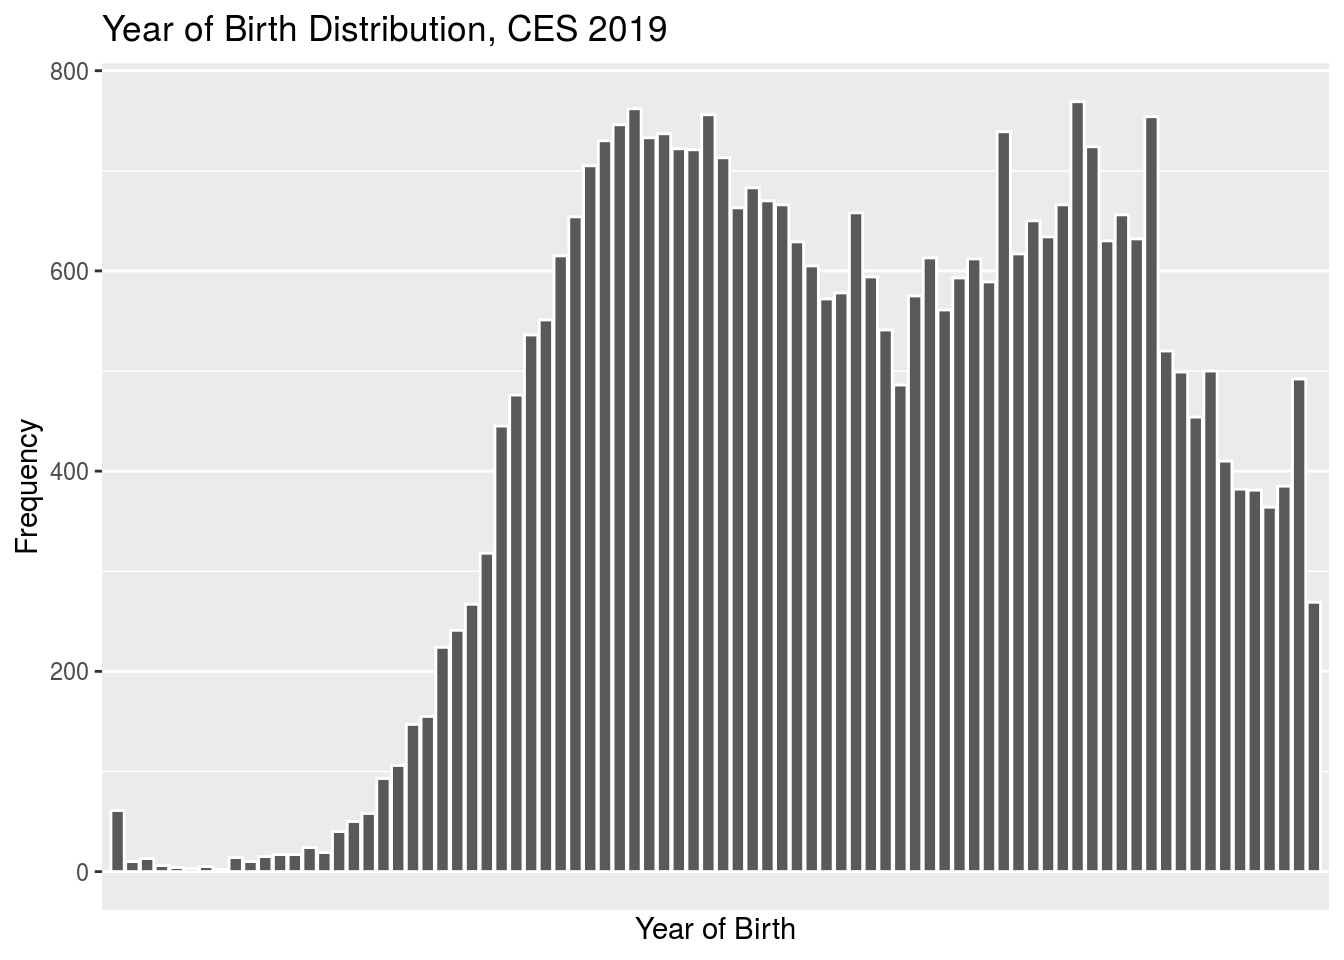
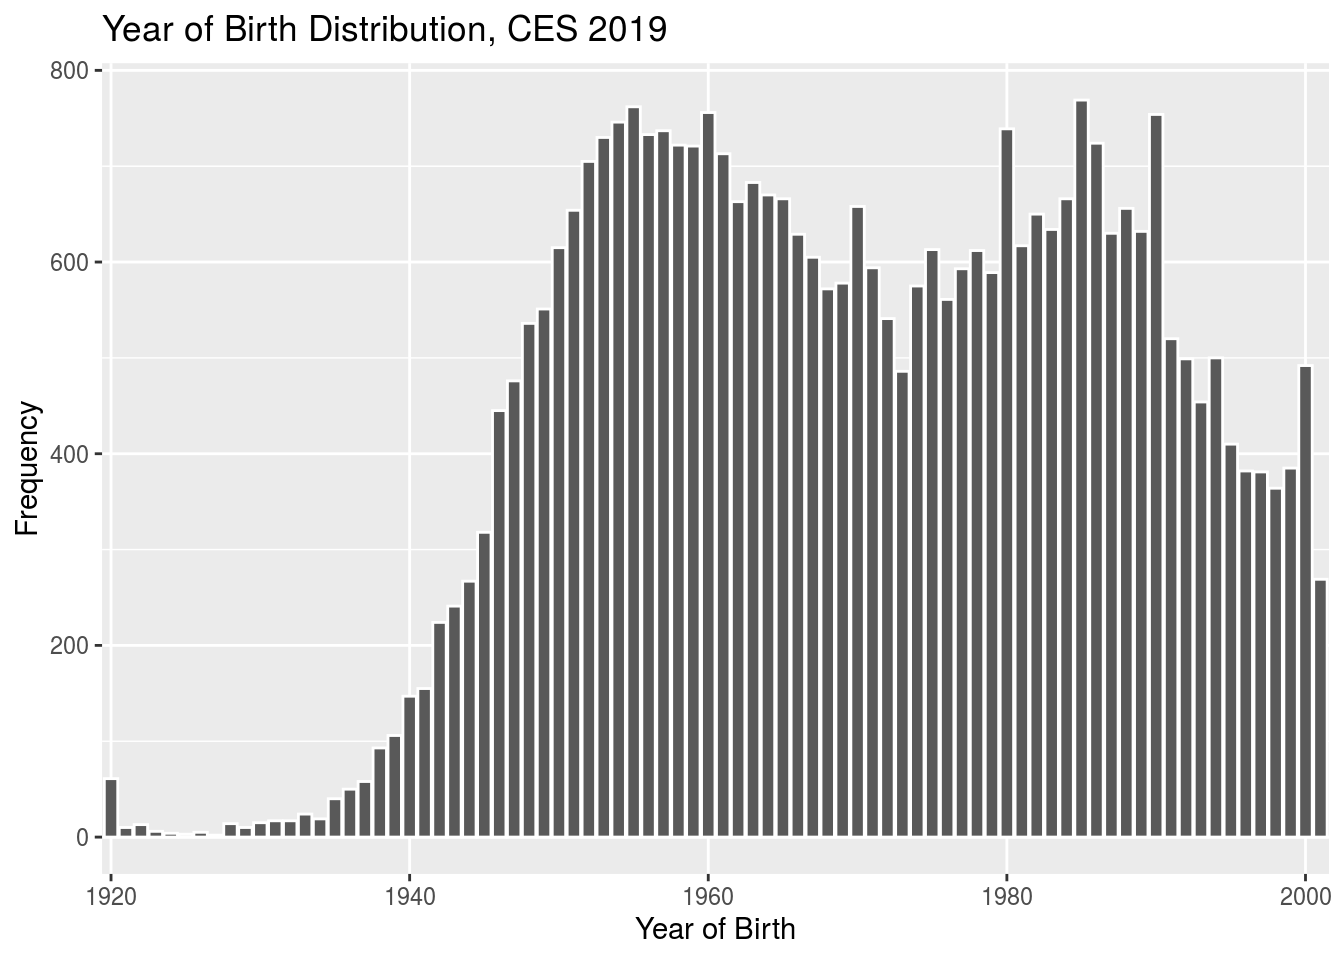
Last?

diff --git a/public/2020/09/27/voter-interest-lower-among-young-voters-in-the-2019-canadian-election/index.html b/public/2020/09/27/voter-interest-lower-among-young-voters-in-the-2019-canadian-election/index.html
@@ -64,7 +64,7 @@
 
   <article class="article">
     
-    <span class="article-duration">6 min read</span>
+    <span class="article-duration">7 min read</span>
     
 
     <h1 class="article-title">Voter Interest Lower Among Young Voters in the 2019 Canadian Election</h1>
@@ -79,17 +79,17 @@
 
 <div id="abstract" class="section level1">
 <h1>Abstract</h1>
-<p>Voter interest and engagement is crucial to the function of democracy. In this paper, we explore the results of the 2019 Canadian Election Study to gain insight to the determinants of voter interest in the 2019 election cycle. We find that the average stated interest in this election increased with age and was generally lower amongst young (potentially first-time) voters. These results may have strong implications for future voter engagement strategies and could act as indicators for future trends in the Canadian political landscape.</p>
+<p>Voter interest and engagement are crucial to the function of democracy. In this paper, I explore the results of the 2019 Canadian Election Study to gain insight into trends in voter interest in the 2019 election cycle. I find that the average stated interest in this election increased with age and was generally lower amongst young voters. These results may have strong implications for future voter engagement strategies and could act as indicators for future trends in the Canadian political landscape.</p>
 </div>
 <div id="introduction" class="section level1">
 <h1>Introduction</h1>
 <p>The Canadian Election Study (CES) provides extensive and important insight into the mindsets of Canadian voters each election cycle. Youth engagement and first-time voters are often topics that arise in this context, and are important markers of civic engagement amongst Canada’s youth. In this paper, we observe that young voters (particularly those born after 1990) showed on average less interest in the 2019 election than their older counterparts, and that stated interest in the election appears to generally increase with age.</p>
-<p>For this analysis, I used the results of the 2019 CES to assess if any trends existed between year of birth and response to the survey question, “How interested are you in this federal election?”. Responses to this question take the form of a rank from 1 to 10, with 10 representing the highest possible level of interest. I then grouped the data by year of birth, calculated the average stated interest for each year and plotted these values in a scatter plot with a smoothing line to best observe any trends in the data. I also examined the distribution in each variable in the form of frequency histograms.</p>
-<p>This analysis was limited to the data available from the CES conducted online for the 2019 Canadian election. Responses to the CES conducted by phone were intentionally omitted, although may provide additional insight. This analysis is by no means exhaustive, and there exist several other datasets with which this work may be cross referenced, particularly past iterations of the CES for which it may be fruitful to compare these results.</p>
+<p>For this analysis, I used the results of the 2019 web CES to assess if any trends existed between year of birth and response to the survey question, “How interested are you in this federal election?”. Responses to this question take the form of a rank from 1 to 10, with 10 representing the highest possible level of interest. I then grouped the data by year of birth, calculated the average stated interest for each year and plotted these values in a scatter plot with a smoothing line to best observe any trends in the data. I also examined the distribution in each variable in the form of frequency histograms.</p>
+<p>This analysis was limited to the data available from the CES conducted online for the 2019 Canadian election. Responses to the CES conducted by phone were omitted, although may provide additional insight. This analysis is by no means exhaustive, and there exist several other datasets with which this work may be cross referenced, particularly past iterations of the CES for which it may be fruitful to compare these results.</p>
 </div>
 <div id="dataset" class="section level1">
 <h1>Dataset</h1>
-<p>The dataset in use for this project is the results of the online 2019 Canadian Election Study (CES). The CES is a survey of the Canadian population coinciding with each Canadian election year. It provides data on a variety of political and social topics, such as views of democracy, political interest, opinions of current leaders and parties, and topics of interest in the corresponding election cycle. In 2019, the CES was conducted via online and phone-based surveys. In this paper we will examine the data resulting from the online CES, specifically those</p>
+<p>The dataset in use for this project is the results of the online 2019 Canadian Election Study (CES). The CES is a survey of the Canadian population coinciding with each Canadian election year. It provides data on a variety of political and social topics, such as views of democracy, political interest, opinions of current leaders and parties, and topics of interest in the corresponding election cycle. In 2019, the CES was conducted via online and phone-based surveys. In this paper we will examine the data resulting from the online CES, specifically responses to the questions “In what year were you born?” and “How interested are you in this federal election?”.</p>
 <pre class="r"><code>get_ces(&quot;ces2019_web&quot;)
 ## TO CITE THIS SURVEY FILE:
 ## 
@@ -102,24 +102,28 @@ ces2019_web &lt;- ces2019_web[!(is.na(ces2019_web$cps19_interest_elxn_1)),]
 ces_age &lt;- summarise(group_by(ces2019_web, cps19_yob), avg=mean(cps19_interest_elxn_1))
 ## `summarise()` ungrouping output (override with `.groups` argument)
 ces_age$cps19_yob &lt;- c(1920:2001)
-ggplot(ces_age) + geom_point(aes(cps19_yob, avg)) + geom_smooth(aes(cps19_yob, avg), model=&quot;lm&quot;) + xlab(&quot;Year of Birth&quot;) + ylab(&quot;Average Response&quot;) + ggtitle(&quot;Average Response to \&quot;How interested are you in this federal election?\&quot;, CES 2019&quot;)
-## Warning: Ignoring unknown parameters: model
+ggplot(ces_age) + geom_point(aes(cps19_yob, avg)) + geom_smooth(aes(cps19_yob, avg)) + xlab(&quot;Year of Birth&quot;) + ylab(&quot;Average Response&quot;) + ggtitle(&quot;Average Response to \&quot;How interested are you in this federal election?\&quot;, CES 2019&quot;)
 ## `geom_smooth()` using method = &#39;loess&#39; and formula &#39;y ~ x&#39;</code></pre>
 <p><img src="../../../../post/2015-07-23-r-rmarkdown_files/figure-html/interest-1.png" width="672" /></p>
-<pre class="r"><code>ggplot() + geom_bar(aes(ces2019_web$cps19_interest_elxn_1)) + xlab(&quot;Response&quot;) + ylab(&quot;Frequency&quot;) + ggtitle(&quot;Responses to \&quot;How interested are you in this federal election?\&quot;, CES 2019&quot;)</code></pre>
+<pre class="r"><code>summary(ces2019_web$cps19_interest_elxn_1)
+##    Min. 1st Qu.  Median    Mean 3rd Qu.    Max. 
+##   0.000   6.000   8.000   7.087   9.000  10.000
+ggplot() + geom_bar(aes(ces2019_web$cps19_interest_elxn_1)) + xlab(&quot;Response&quot;) + ylab(&quot;Frequency&quot;) + ggtitle(&quot;Responses to \&quot;How interested are you in this federal election?\&quot;, CES 2019&quot;)</code></pre>
 <p><img src="../../../../post/2015-07-23-r-rmarkdown_files/figure-html/dist%20interest-1.png" width="672" /></p>
-<pre class="r"><code>ggplot(ces2019_web) + geom_bar(aes(cps19_yob), colour=&quot;white&quot;) + scale_x_discrete(breaks=c(1920, 1940, 1960, 1980, 2000), labels=c(1920, 1940, 1960, 1980, 2000)) + ggtitle(&quot;Year of Birth Distribution, CES 2019&quot;) + ylab(&quot;Frequency&quot;) + xlab(&quot;Year of Birth&quot;)</code></pre>
+<pre class="r"><code>ces2019_web$cps19_yob &lt;- factor(ces2019_web$cps19_yob, labels=c(1920:2001))
+ggplot(ces2019_web) + geom_bar(aes(cps19_yob), colour=&quot;white&quot;) + scale_x_discrete(breaks=c(1920, 1940, 1960, 1980, 2000), labels=c(1920, 1940, 1960, 1980, 2000)) + ggtitle(&quot;Year of Birth Distribution, CES 2019&quot;) + ylab(&quot;Frequency&quot;) + xlab(&quot;Year of Birth&quot;)</code></pre>
 <p><img src="../../../../post/2015-07-23-r-rmarkdown_files/figure-html/dist%20yob-1.png" width="672" /></p>
 </div>
 <div id="discussion" class="section level1">
 <h1>Discussion</h1>
-<p>This data displays a clear downward trend in stated interest in the 2019 election based on age, with the average response of the youngest respondents approximately 1.5 points lower than that of respondents born around 1940. This matches a similar trend in voter turnout over the past three elections, wherein voters aged 18 to 24 and 25 to 34 have consistently represented the lowest two turnout rates of all age groups (as reported by Statistics Canada). The 2019 election (as with all elections) represented many young peoples’ first opportunity to vote, and a lack of exposure to the electoral process may serve as a deterrent to those less politically active.</p>
-<p>A lower interest towards the election is also reflected in young peoples’ lower number of responses to the CES (compared to those born between 1940 and 1990). It is possible that young people are less familiar with the CES and therefore less likely to respond, or could be better engaged through new and more popular platforms.</p>
+<p>This data displays a clear downward trend in stated interest in the 2019 election between the responses of those born in 1940 and those born in 2001, with the average response of the youngest respondents at approximately 1.5 points lower than that of respondents born around 1940 and approximately 0.5 points lower than that of respondents born in the 1960s on average. Observing the distribution of responses to the question, “How interested are you in this federal election?”, we see that the data exhibits a strong left skew with a median (8) almost a full point higher than the mean (7.087). This emphasizes younger generations’ relative lack of interest in the election, as the average responses to this question for those born after 1980 all fall below both the median and the mean.</p>
+<p>A lower interest towards the election is also reflected in young peoples’ lower number of responses to the CES (compared to those born between 1940 and 1990). It is possible that young people who are less interested in the election are also less likely to respond to the CES. It is also possible that this population is less familiar with the CES and therefore less likely to respond, or could be better engaged through new and more popular platforms. There were also relatively few respondents born between the years of 1920 and 1940 which may account for the high variance and lack of distinct trend in this data. For this reason (among others) this discussion focuses mainly on the trend in interest for those born after 1940.</p>
+<p>These results match a similar trend in voter turnout over the past three elections, wherein voters aged 18 to 24 and 25 to 34 have consistently represented the lowest two turnout rates of all age groups (as reported by Statistics Canada). The 2019 election (as with all elections) represented many young peoples’ first opportunity to vote, and a lack of exposure to the electoral process may have served as a deterrent to those less politically active.</p>
 </div>
 <div id="weaknesses-and-future-work" class="section level1">
 <h1>Weaknesses and Future Work</h1>
 <p>This analysis of the CES only includes the online survey results and does not include the phone survey results. It is possible that the distribution in the age of respondents would be impacted by the responses from the phone survey, and this may influence the strength of the trend in the data. As mentioned previously, there were also limited respondents to the online survey born between 1920 and 1940 which likely contributes to the high variance and lack of distinct pattern seen in the data for this age group. There were relatively fewer respondents born after 1990 compared to those born between 1950 and 1990. This may indicate a lack of engagement that matches the lower interest level observed in this age group, or may indicate a need to conduct further outreach to this age group in order to improve response rates for the next CES.</p>
-<p>In future, it may be worth examining the trends in age and interest across all available years of the CES to determine whether young voters within each election cycle tend to be less engaged, if there emerge any generational trends in interest levels, or if there exists any seasonality in interest levels within age groups.</p>
+<p>In future, it may be worth examining the trends in age and interest across all available years of the CES to determine whether young voters within each election cycle tend to be less engaged, if there emerge any generational trends in interest levels, or if there exists any seasonality or trends in interest levels within age groups.</p>
 </div>
 <div id="references" class="section level1">
 <h1>References</h1>

diff --git a/content/post/2015-07-23-r-rmarkdown.html b/content/post/2015-07-23-r-rmarkdown.html
@@ -10,17 +10,17 @@ tags: ["R Markdown", "plot", "assignments"]
 
 <div id="abstract" class="section level1">
 <h1>Abstract</h1>
-<p>Voter interest and engagement is crucial to the function of democracy. In this paper, we explore the results of the 2019 Canadian Election Study to gain insight to the determinants of voter interest in the 2019 election cycle. We find that the average stated interest in this election increased with age and was generally lower amongst young (potentially first-time) voters. These results may have strong implications for future voter engagement strategies and could act as indicators for future trends in the Canadian political landscape.</p>
+<p>Voter interest and engagement are crucial to the function of democracy. In this paper, I explore the results of the 2019 Canadian Election Study to gain insight into trends in voter interest in the 2019 election cycle. I find that the average stated interest in this election increased with age and was generally lower amongst young voters. These results may have strong implications for future voter engagement strategies and could act as indicators for future trends in the Canadian political landscape.</p>
 </div>
 <div id="introduction" class="section level1">
 <h1>Introduction</h1>
 <p>The Canadian Election Study (CES) provides extensive and important insight into the mindsets of Canadian voters each election cycle. Youth engagement and first-time voters are often topics that arise in this context, and are important markers of civic engagement amongst Canada’s youth. In this paper, we observe that young voters (particularly those born after 1990) showed on average less interest in the 2019 election than their older counterparts, and that stated interest in the election appears to generally increase with age.</p>
-<p>For this analysis, I used the results of the 2019 CES to assess if any trends existed between year of birth and response to the survey question, “How interested are you in this federal election?”. Responses to this question take the form of a rank from 1 to 10, with 10 representing the highest possible level of interest. I then grouped the data by year of birth, calculated the average stated interest for each year and plotted these values in a scatter plot with a smoothing line to best observe any trends in the data. I also examined the distribution in each variable in the form of frequency histograms.</p>
-<p>This analysis was limited to the data available from the CES conducted online for the 2019 Canadian election. Responses to the CES conducted by phone were intentionally omitted, although may provide additional insight. This analysis is by no means exhaustive, and there exist several other datasets with which this work may be cross referenced, particularly past iterations of the CES for which it may be fruitful to compare these results.</p>
+<p>For this analysis, I used the results of the 2019 web CES to assess if any trends existed between year of birth and response to the survey question, “How interested are you in this federal election?”. Responses to this question take the form of a rank from 1 to 10, with 10 representing the highest possible level of interest. I then grouped the data by year of birth, calculated the average stated interest for each year and plotted these values in a scatter plot with a smoothing line to best observe any trends in the data. I also examined the distribution in each variable in the form of frequency histograms.</p>
+<p>This analysis was limited to the data available from the CES conducted online for the 2019 Canadian election. Responses to the CES conducted by phone were omitted, although may provide additional insight. This analysis is by no means exhaustive, and there exist several other datasets with which this work may be cross referenced, particularly past iterations of the CES for which it may be fruitful to compare these results.</p>
 </div>
 <div id="dataset" class="section level1">
 <h1>Dataset</h1>
-<p>The dataset in use for this project is the results of the online 2019 Canadian Election Study (CES). The CES is a survey of the Canadian population coinciding with each Canadian election year. It provides data on a variety of political and social topics, such as views of democracy, political interest, opinions of current leaders and parties, and topics of interest in the corresponding election cycle. In 2019, the CES was conducted via online and phone-based surveys. In this paper we will examine the data resulting from the online CES, specifically those</p>
+<p>The dataset in use for this project is the results of the online 2019 Canadian Election Study (CES). The CES is a survey of the Canadian population coinciding with each Canadian election year. It provides data on a variety of political and social topics, such as views of democracy, political interest, opinions of current leaders and parties, and topics of interest in the corresponding election cycle. In 2019, the CES was conducted via online and phone-based surveys. In this paper we will examine the data resulting from the online CES, specifically responses to the questions “In what year were you born?” and “How interested are you in this federal election?”.</p>
 <pre class="r"><code>get_ces(&quot;ces2019_web&quot;)
 ## TO CITE THIS SURVEY FILE:
 ## 
@@ -33,24 +33,28 @@ ces2019_web &lt;- ces2019_web[!(is.na(ces2019_web$cps19_interest_elxn_1)),]
 ces_age &lt;- summarise(group_by(ces2019_web, cps19_yob), avg=mean(cps19_interest_elxn_1))
 ## `summarise()` ungrouping output (override with `.groups` argument)
 ces_age$cps19_yob &lt;- c(1920:2001)
-ggplot(ces_age) + geom_point(aes(cps19_yob, avg)) + geom_smooth(aes(cps19_yob, avg), model=&quot;lm&quot;) + xlab(&quot;Year of Birth&quot;) + ylab(&quot;Average Response&quot;) + ggtitle(&quot;Average Response to \&quot;How interested are you in this federal election?\&quot;, CES 2019&quot;)
-## Warning: Ignoring unknown parameters: model
+ggplot(ces_age) + geom_point(aes(cps19_yob, avg)) + geom_smooth(aes(cps19_yob, avg)) + xlab(&quot;Year of Birth&quot;) + ylab(&quot;Average Response&quot;) + ggtitle(&quot;Average Response to \&quot;How interested are you in this federal election?\&quot;, CES 2019&quot;)
 ## `geom_smooth()` using method = &#39;loess&#39; and formula &#39;y ~ x&#39;</code></pre>
 <p><img src="/post/2015-07-23-r-rmarkdown_files/figure-html/interest-1.png" width="672" /></p>
-<pre class="r"><code>ggplot() + geom_bar(aes(ces2019_web$cps19_interest_elxn_1)) + xlab(&quot;Response&quot;) + ylab(&quot;Frequency&quot;) + ggtitle(&quot;Responses to \&quot;How interested are you in this federal election?\&quot;, CES 2019&quot;)</code></pre>
+<pre class="r"><code>summary(ces2019_web$cps19_interest_elxn_1)
+##    Min. 1st Qu.  Median    Mean 3rd Qu.    Max. 
+##   0.000   6.000   8.000   7.087   9.000  10.000
+ggplot() + geom_bar(aes(ces2019_web$cps19_interest_elxn_1)) + xlab(&quot;Response&quot;) + ylab(&quot;Frequency&quot;) + ggtitle(&quot;Responses to \&quot;How interested are you in this federal election?\&quot;, CES 2019&quot;)</code></pre>
 <p><img src="/post/2015-07-23-r-rmarkdown_files/figure-html/dist%20interest-1.png" width="672" /></p>
-<pre class="r"><code>ggplot(ces2019_web) + geom_bar(aes(cps19_yob), colour=&quot;white&quot;) + scale_x_discrete(breaks=c(1920, 1940, 1960, 1980, 2000), labels=c(1920, 1940, 1960, 1980, 2000)) + ggtitle(&quot;Year of Birth Distribution, CES 2019&quot;) + ylab(&quot;Frequency&quot;) + xlab(&quot;Year of Birth&quot;)</code></pre>
+<pre class="r"><code>ces2019_web$cps19_yob &lt;- factor(ces2019_web$cps19_yob, labels=c(1920:2001))
+ggplot(ces2019_web) + geom_bar(aes(cps19_yob), colour=&quot;white&quot;) + scale_x_discrete(breaks=c(1920, 1940, 1960, 1980, 2000), labels=c(1920, 1940, 1960, 1980, 2000)) + ggtitle(&quot;Year of Birth Distribution, CES 2019&quot;) + ylab(&quot;Frequency&quot;) + xlab(&quot;Year of Birth&quot;)</code></pre>
 <p><img src="/post/2015-07-23-r-rmarkdown_files/figure-html/dist%20yob-1.png" width="672" /></p>
 </div>
 <div id="discussion" class="section level1">
 <h1>Discussion</h1>
-<p>This data displays a clear downward trend in stated interest in the 2019 election based on age, with the average response of the youngest respondents approximately 1.5 points lower than that of respondents born around 1940. This matches a similar trend in voter turnout over the past three elections, wherein voters aged 18 to 24 and 25 to 34 have consistently represented the lowest two turnout rates of all age groups (as reported by Statistics Canada). The 2019 election (as with all elections) represented many young peoples’ first opportunity to vote, and a lack of exposure to the electoral process may serve as a deterrent to those less politically active.</p>
-<p>A lower interest towards the election is also reflected in young peoples’ lower number of responses to the CES (compared to those born between 1940 and 1990). It is possible that young people are less familiar with the CES and therefore less likely to respond, or could be better engaged through new and more popular platforms.</p>
+<p>This data displays a clear downward trend in stated interest in the 2019 election between the responses of those born in 1940 and those born in 2001, with the average response of the youngest respondents at approximately 1.5 points lower than that of respondents born around 1940 and approximately 0.5 points lower than that of respondents born in the 1960s on average. Observing the distribution of responses to the question, “How interested are you in this federal election?”, we see that the data exhibits a strong left skew with a median (8) almost a full point higher than the mean (7.087). This emphasizes younger generations’ relative lack of interest in the election, as the average responses to this question for those born after 1980 all fall below both the median and the mean.</p>
+<p>A lower interest towards the election is also reflected in young peoples’ lower number of responses to the CES (compared to those born between 1940 and 1990). It is possible that young people who are less interested in the election are also less likely to respond to the CES. It is also possible that this population is less familiar with the CES and therefore less likely to respond, or could be better engaged through new and more popular platforms. There were also relatively few respondents born between the years of 1920 and 1940 which may account for the high variance and lack of distinct trend in this data. For this reason (among others) this discussion focuses mainly on the trend in interest for those born after 1940.</p>
+<p>These results match a similar trend in voter turnout over the past three elections, wherein voters aged 18 to 24 and 25 to 34 have consistently represented the lowest two turnout rates of all age groups (as reported by Statistics Canada). The 2019 election (as with all elections) represented many young peoples’ first opportunity to vote, and a lack of exposure to the electoral process may have served as a deterrent to those less politically active.</p>
 </div>
 <div id="weaknesses-and-future-work" class="section level1">
 <h1>Weaknesses and Future Work</h1>
 <p>This analysis of the CES only includes the online survey results and does not include the phone survey results. It is possible that the distribution in the age of respondents would be impacted by the responses from the phone survey, and this may influence the strength of the trend in the data. As mentioned previously, there were also limited respondents to the online survey born between 1920 and 1940 which likely contributes to the high variance and lack of distinct pattern seen in the data for this age group. There were relatively fewer respondents born after 1990 compared to those born between 1950 and 1990. This may indicate a lack of engagement that matches the lower interest level observed in this age group, or may indicate a need to conduct further outreach to this age group in order to improve response rates for the next CES.</p>
-<p>In future, it may be worth examining the trends in age and interest across all available years of the CES to determine whether young voters within each election cycle tend to be less engaged, if there emerge any generational trends in interest levels, or if there exists any seasonality in interest levels within age groups.</p>
+<p>In future, it may be worth examining the trends in age and interest across all available years of the CES to determine whether young voters within each election cycle tend to be less engaged, if there emerge any generational trends in interest levels, or if there exists any seasonality or trends in interest levels within age groups.</p>
 </div>
 <div id="references" class="section level1">
 <h1>References</h1>
